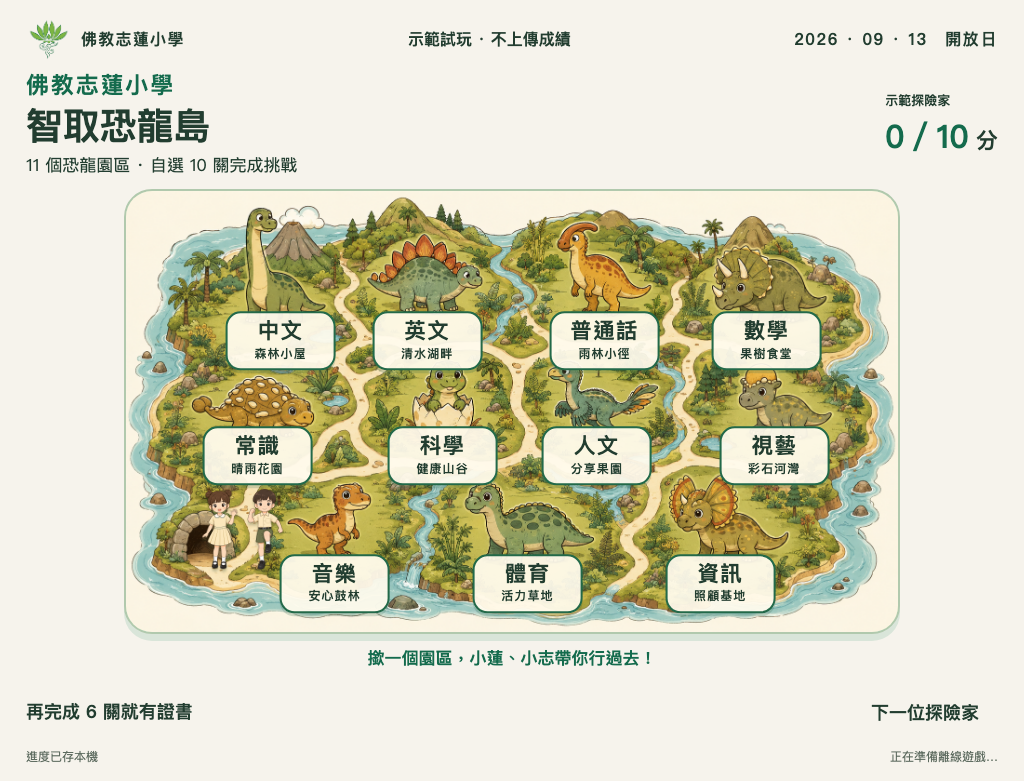
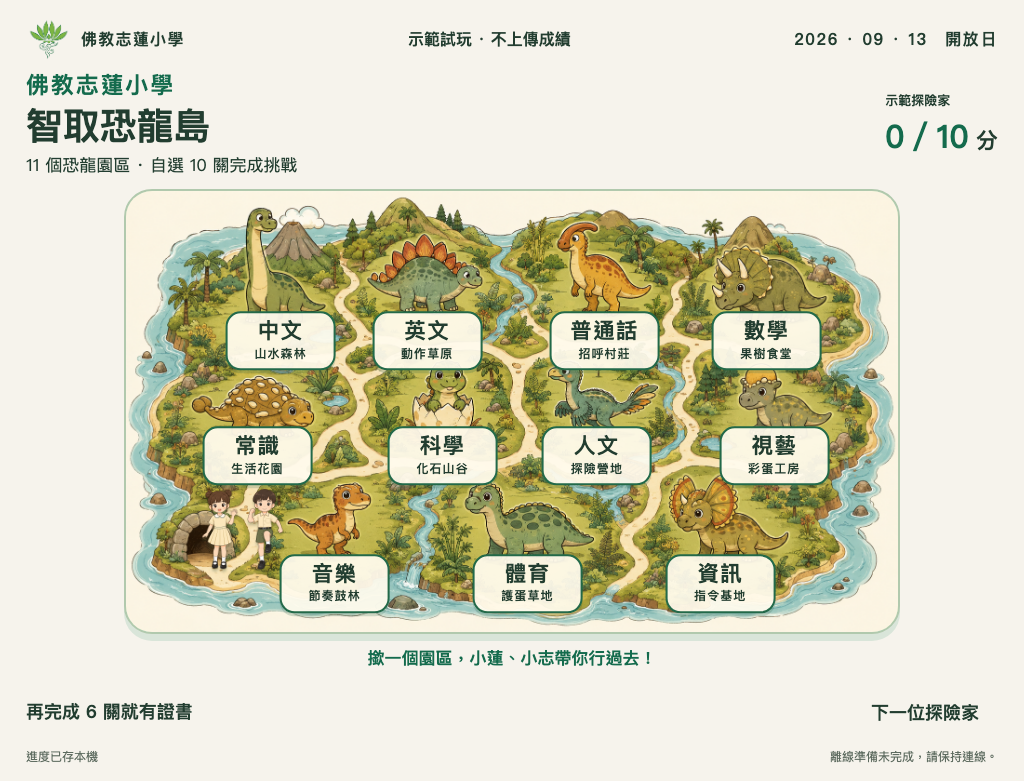
Add original daily routine scenes and align park descriptions with new games

diff --git a/shared/style.css b/shared/style.css
@@ -34,8 +34,8 @@
 .feeding-dino.is-fed{background:#fff9dc;border-color:#b8923a;border-radius:24px}.feeding-count{text-align:center;font-size:28px;font-weight:800;margin:12px}.feeding-food{gap:10px;flex-wrap:wrap}.feeding-food .choice{min-width:72px;width:84px;height:84px}.feeding-food .choice:disabled{opacity:.25}.feeding-hint{outline:6px solid #b8923a;outline-offset:2px}
 @media(max-width:600px){.feeding-garden{gap:2px;padding:12px 2px;min-height:180px}.feeding-dino{font-size:14px;padding:3px}.feeding-dino .character{height:100px}.feeding-plate{width:48px;height:40px}.feeding-food .choice{min-width:64px;width:64px;height:64px}}
 
-.routine-scene{position:relative;display:flex;justify-content:center;align-items:end;gap:36px;min-height:235px;padding:18px;background:#e8edcf;border-radius:28px}.routine-night{background:#d9dfeb}.routine-window{position:absolute;right:5%;top:12px;display:grid;place-items:center;width:100px;height:100px;background:#fff8df;border:6px solid #b8923a;border-radius:48px 48px 8px 8px}.routine-window .icon{width:75px;height:75px}.routine-guide{width:150px;height:210px;object-fit:contain}.routine-dino{display:flex;align-items:center;gap:10px}.routine-dino>.character{width:170px;height:210px;object-fit:contain}.routine-action{display:flex;flex-direction:column;align-items:center;background:#f6f3ec;border:3px solid #146b4d;border-radius:24px;padding:10px;font-size:22px}.routine-action .icon{width:75px;height:75px}.routine-sequence{display:flex;justify-content:center;align-items:center;gap:16px;min-height:78px;margin-top:10px}.routine-sequence span{display:flex;align-items:center;font-size:22px;gap:6px}.routine-sequence .icon{width:48px;height:48px}.routine-choices .choice{display:flex;flex-direction:column;align-items:center;justify-content:center;width:140px;height:120px;font-size:22px}.routine-choices .icon{width:70px;height:70px}.routine-hint{outline:6px solid #b8923a;outline-offset:3px}
-@media(max-width:600px){.routine-scene{gap:8px;min-height:190px;padding:10px}.routine-guide{width:75px;height:150px}.routine-dino>.character{width:105px;height:150px}.routine-action{padding:6px;font-size:18px}.routine-action .icon{width:48px;height:48px}.routine-window{width:60px;height:60px;right:8px;top:8px}.routine-window .icon{width:44px;height:44px}.routine-sequence{gap:5px}.routine-sequence span{font-size:16px}.routine-sequence .icon{width:32px;height:32px}.routine-choices .choice{width:90px;height:100px;font-size:18px}}
+.routine-scene{position:relative;display:flex;justify-content:center;align-items:end;gap:36px;min-height:330px;padding:75px 18px 18px;background:#e8edcf url(../hub/img/games/general/morning.png) center top/cover;border-radius:28px}.routine-day{background-image:url(../hub/img/games/general/daytime.png)}.routine-night{background-image:url(../hub/img/games/general/bedtime.png)}.routine-window{position:absolute;left:14px;top:12px;display:grid;place-items:center;width:64px;height:64px;background:#fff8df;border:3px solid #b8923a;border-radius:18px}.routine-window .icon{width:48px;height:48px}.routine-guide{width:150px;height:210px;object-fit:contain}.routine-dino{display:flex;align-items:center;gap:10px}.routine-dino>.character{width:170px;height:210px;object-fit:contain}.routine-action{display:flex;flex-direction:column;align-items:center;background:#f6f3ec;border:3px solid #146b4d;border-radius:24px;padding:10px;font-size:22px}.routine-action .icon{width:75px;height:75px}.routine-sequence{display:flex;justify-content:center;align-items:center;gap:16px;min-height:78px;margin-top:10px}.routine-sequence span{display:flex;align-items:center;font-size:22px;gap:6px}.routine-sequence .icon{width:48px;height:48px}.routine-choices .choice{display:flex;flex-direction:column;align-items:center;justify-content:center;width:140px;height:120px;font-size:22px}.routine-choices .icon{width:70px;height:70px}.routine-hint{outline:6px solid #b8923a;outline-offset:3px}
+@media(max-width:600px){.routine-scene{gap:8px;min-height:245px;padding:75px 10px 10px}.routine-guide{width:75px;height:150px}.routine-dino>.character{width:105px;height:150px}.routine-action{padding:6px;font-size:18px}.routine-action .icon{width:48px;height:48px}.routine-window{width:50px;height:50px;left:8px;top:8px}.routine-window .icon{width:36px;height:36px}.routine-sequence{gap:5px}.routine-sequence span{font-size:16px}.routine-sequence .icon{width:32px;height:32px}.routine-choices .choice{width:90px;height:100px;font-size:18px}}
 
 .expedition-intro{text-align:center;font-size:26px;padding:20px}.expedition-intro>.icon{width:150px;height:150px}.expedition-camp{display:flex;justify-content:center;align-items:end;gap:18px;min-height:220px;padding:16px;background:#e0ebce;border-radius:40px}.expedition-camp>.character{width:150px;height:190px;object-fit:contain}.expedition-improvements{display:flex;align-items:end;gap:12px}.expedition-improvements>span{display:flex;align-items:center;flex-direction:column;font-size:20px}.expedition-improvements .icon{width:90px;height:90px}.expedition-options .choice{width:220px;height:160px;display:flex;flex-direction:column;align-items:center;justify-content:center;font-size:24px}.expedition-options .icon{width:100px;height:100px}.expedition-hint{outline:6px solid #b8923a;outline-offset:3px}
 @media(max-width:600px){.expedition-camp{gap:4px;padding:8px;min-height:165px}.expedition-camp>.character{width:65px;height:140px}.expedition-improvements{gap:4px}.expedition-improvements>span{font-size:13px;max-width:58px;text-align:center}.expedition-improvements .icon{width:52px;height:52px}.expedition-options{gap:8px}.expedition-options .choice{width:92px;min-width:80px;height:140px;font-size:17px;padding:6px}.expedition-options .icon{width:64px;height:64px}}

diff --git a/sw.js b/sw.js
@@ -1,7 +1,7 @@
 // Generated precache manifest. Rebuild whenever local assets change.
-const CACHE='dino-island-ad4d1d988a67';
+const CACHE='dino-island-57afd5bde331';
 const BASE=new URL('./',self.location.href);
-const ASSETS=["board/board.css","board/board.js","board/img/board-skin.png","board/index.html","hub/app.js","hub/certificate.js","hub/games.js","hub/img/chars/dino-baby-eat.png","hub/img/chars/dino-baby-sleep.png","hub/img/chars/dino-baby.png","hub/img/chars/landmark-hatch.png","hub/img/chars/landmark-longneck.png","hub/img/chars/landmark-triceratops.png","hub/img/chars/xiaolian-clap.png","hub/img/chars/xiaolian-color.png","hub/img/chars/xiaolian-highfive.png","hub/img/chars/xiaolian-point.png","hub/img/chars/xiaolian-welcome.png","hub/img/chars/xiaolian-write.png","hub/img/chars/xiaozhi-highfive.png","hub/img/chars/xiaozhi-jump.png","hub/img/chars/xiaozhi-run.png","hub/img/chars/xiaozhi-sit.png","hub/img/chars/xiaozhi-step.png","hub/img/chars/xiaozhi-stretch.png","hub/img/chars/xiaozhi-tablet.png","hub/img/chars/xiaozhi-welcome.png","hub/img/games/math/feeding-garden.png","hub/img/map/island-path.png","hub/img/ui/cert-frame.png","hub/index.html","hub/modules/art.js","hub/modules/chinese-scenes.js","hub/modules/computing.js","hub/modules/general.js","hub/modules/humanities.js","hub/modules/mandarin.js","hub/modules/math.js","hub/modules/motion.js","hub/modules/music.js","hub/modules/science.js","hub/park-guides.js","index.html","setup/index.html","shared/config.js","shared/core.js","shared/game-clock-gate.js","shared/game-state.js","shared/icons.js","shared/img/school-logo.png","shared/models/pose-landmarker-lite-v1.task","shared/network.js","shared/offline.js","shared/pose-actions.js","shared/pose-camera.js","shared/qrcode.js","shared/recorder.js","shared/sequence.js","shared/storage.js","shared/style.css","shared/vendor/mediapipe/vision-bundle.js","shared/vendor/mediapipe/wasm/vision_wasm_internal.js","shared/vendor/mediapipe/wasm/vision_wasm_internal.wasm","shared/vendor/mediapipe/wasm/vision_wasm_nosimd_internal.js","shared/vendor/mediapipe/wasm/vision_wasm_nosimd_internal.wasm","hub/","board/","setup/"].map(p=>new URL(p,BASE).href);
+const ASSETS=["board/board.css","board/board.js","board/img/board-skin.png","board/index.html","hub/app.js","hub/certificate.js","hub/games.js","hub/img/chars/dino-baby-eat.png","hub/img/chars/dino-baby-sleep.png","hub/img/chars/dino-baby.png","hub/img/chars/landmark-hatch.png","hub/img/chars/landmark-longneck.png","hub/img/chars/landmark-triceratops.png","hub/img/chars/xiaolian-clap.png","hub/img/chars/xiaolian-color.png","hub/img/chars/xiaolian-highfive.png","hub/img/chars/xiaolian-point.png","hub/img/chars/xiaolian-welcome.png","hub/img/chars/xiaolian-write.png","hub/img/chars/xiaozhi-highfive.png","hub/img/chars/xiaozhi-jump.png","hub/img/chars/xiaozhi-run.png","hub/img/chars/xiaozhi-sit.png","hub/img/chars/xiaozhi-step.png","hub/img/chars/xiaozhi-stretch.png","hub/img/chars/xiaozhi-tablet.png","hub/img/chars/xiaozhi-welcome.png","hub/img/games/general/bedtime.png","hub/img/games/general/daytime.png","hub/img/games/general/morning.png","hub/img/games/math/feeding-garden.png","hub/img/map/island-path.png","hub/img/ui/cert-frame.png","hub/index.html","hub/modules/art.js","hub/modules/chinese-scenes.js","hub/modules/computing.js","hub/modules/general.js","hub/modules/humanities.js","hub/modules/mandarin.js","hub/modules/math.js","hub/modules/motion.js","hub/modules/music.js","hub/modules/science.js","hub/park-guides.js","index.html","setup/index.html","shared/certificate-link.js","shared/config.js","shared/core.js","shared/game-clock-gate.js","shared/game-state.js","shared/icons.js","shared/img/school-logo.png","shared/models/pose-landmarker-lite-v1.task","shared/network.js","shared/offline.js","shared/pose-actions.js","shared/pose-camera.js","shared/qrcode.js","shared/recorder.js","shared/sequence.js","shared/storage.js","shared/style.css","shared/vendor/mediapipe/vision-bundle.js","shared/vendor/mediapipe/wasm/vision_wasm_internal.js","shared/vendor/mediapipe/wasm/vision_wasm_internal.wasm","shared/vendor/mediapipe/wasm/vision_wasm_nosimd_internal.js","shared/vendor/mediapipe/wasm/vision_wasm_nosimd_internal.wasm","hub/","board/","setup/"].map(p=>new URL(p,BASE).href);
 self.addEventListener('install',e=>e.waitUntil(caches.open(CACHE).then(c=>c.addAll(ASSETS))));
 self.addEventListener('activate',e=>e.waitUntil(Promise.all([caches.keys().then(keys=>Promise.all(keys.filter(k=>k.startsWith('dino-island-')&&k!==CACHE).map(k=>caches.delete(k)))),self.clients.claim()])));
 self.addEventListener('message',e=>{if(e.data?.type!=='CHECK_OFFLINE'||!e.ports[0])return;e.waitUntil(caches.open(CACHE).then(async c=>{const present=await Promise.all(ASSETS.map(url=>c.match(url)));e.ports[0].postMessage({type:'OFFLINE_STATUS',version:CACHE,complete:present.every(Boolean),missing:present.filter(r=>!r).length,total:ASSETS.length});}).catch(()=>e.ports[0].postMessage({type:'OFFLINE_STATUS',complete:false,missing:ASSETS.length,total:ASSETS.length})));});

diff --git a/shared/core.js b/shared/core.js
@@ -2,15 +2,15 @@ export const SCHOOL='佛教志蓮小學', TITLE='智取恐龍島', DATE='2026.09
 export const ZONES=[
  ['chinese','中文','write','xiaolian-write','跟筆順認識山水火木日月，連結小龍嘅生活環境。','認識山水、火山、樹木同日月，小龍學識安全生活同休息！'],
  ['english','英文','ear',null,'聽英文指令，用身體動作回應小龍。','聽指令一齊郁身，小龍開心又有精神！'],
- ['mandarin','普通話','ear',null,'聽普通話，先至知小龍要咩。','避到雨、食得飽，小龍學識照顧自己！'],
+ ['mandarin','普通話','ear',null,'聽普通話、跟住講，學習打招呼同禮貌用語。','識得打招呼、多謝同道別，小龍同朋友相處更開心！'],
  ['math','數學','apple',null,'數一數，每隻恐龍分一份，唔重複、唔漏低。','每隻恐龍都有一份食物，大家食飽又開心！'],
  ['general','常識','sun','xiaozhi-welcome','認識早午晚，幫小龍安排飲食、清潔同休息。','食早餐、玩耍、沖涼、瞓覺，小龍學識有規律嘅生活！'],
  ['science','科學','search','xiaozhi-sit','掃泥、觀察化石、拼骨架，認識恐龍身體。','你細心研究化石，認識小龍嘅身體同以前嘅生命！'],
  ['humanities','人文','share','xiaolian-point','觀察環境，為小龍選安全營地、飲用水同樹蔭。','有安全營地、清潔飲用水同樹蔭，小龍生活更安心！'],
  ['art','視藝','paint','xiaolian-color','用顏色、形狀同紋樣裝飾彩蛋，歡迎小龍誕生。','你創作嘅彩蛋孵出小龍，新生命開心同你打招呼！'],
- ['music','音樂','drum','xiaolian-clap','跟節奏，小龍就唔會驚。','有你陪住打拍子，小龍安心又開心！'],
+ ['music','音樂','drum','xiaolian-clap','留心聽同睇燈，跟住鼓、鈴同拍手嘅次序合奏。','你同小蓮、小志、小龍一齊合奏，大家開心又合拍！'],
  ['pe','體育','move','xiaozhi-stretch','蹲低、移動、舉手同停定，練習控制身體保護恐龍蛋。','你控制好身體，恐龍蛋安全，小龍安心！'],
- ['computing','資訊','order','xiaozhi-tablet','照顧都有先後次序。','先飲水、後食菜，小龍學識照顧次序！']
+ ['computing','資訊','order','xiaozhi-tablet','先排好指令再試行，帶機械小龍避開障礙去搵恐龍蛋。','你排好前進、轉彎同跳躍指令，機械小龍安全到達恐龍蛋！']
 ].map(([id,name,icon,companion,parent,outcome])=>({id,name,icon,companion,parent,outcome}));
 export const zoneById=id=>ZONES.find(z=>z.id===id);
 export const nameLength=s=>[...new Intl.Segmenter('zh-HK',{granularity:'grapheme'}).segment(s)].length;

diff --git a/hub/app.js b/hub/app.js
@@ -23,9 +23,9 @@ function shell(content){app.innerHTML=`<div class="shell"><header class="topbar"
 function welcome(){shell(`<section class="welcome"><div class="welcome-copy"><p class="eyebrow">小小探險家 · 大大照顧心</p><h1>智取<br>恐龍島</h1><p class="question">點樣照顧恐龍島上嘅小恐龍，令佢哋安全、開心、學識生活？</p><form class="nickname"><label for="nickname">你叫咩暱稱？</label><div class="input-wrap"><input id="nickname" name="nickname" autocomplete="off" placeholder="例如：小晴" aria-describedby="name-help" required><span id="name-count" class="subtle">0／8</span></div><p class="subtle" id="name-help">最多八個字；暱稱會喺現場探險榜出現。</p><button class="primary" type="submit">出發去島上　→</button><p class="subtle">11 關任揀 10 關 · 每關 1 分 · 六分領證</p></form></div><div class="welcome-art"><span class="art-label">一齊照顧小龍！</span><img class="character boy" src="img/chars/xiaozhi-welcome.png" alt="小志張手歡迎"><img class="character dino" src="img/chars/dino-baby.png" alt="綠色小龍"></div></section>`);
  const input=document.querySelector('#nickname');input.addEventListener('input',()=>{let n=nameLength(cleanName(input.value));document.querySelector('#name-count').textContent=n+'／8';input.setCustomValidity(n>8?'暱稱最多八個字。':'');});document.querySelector('form').onsubmit=e=>{e.preventDefault();if(!validName(input.value)){notify('請輸入一至八個字嘅暱稱。');return;}player=newPlayer(input.value);persist();if(saveFailed)return;synced();location.hash='/map';};}
 const parkZones=[
- ['森林小屋',20,19,34],['清水湖畔',39,20,34],['雨林小徑',62,19,34],['果樹食堂',83,23,34],
- ['晴雨花園',17,49,60],['健康山谷',41,49,60],['分享果園',61,48,60],['彩石河灣',84,49,60],
- ['安心鼓林',27,76,89],['活力草地',52,78,89],['照顧基地',77,77,89]
+ ['山水森林',20,19,34],['動作草原',39,20,34],['招呼村莊',62,19,34],['果樹食堂',83,23,34],
+ ['生活花園',17,49,60],['化石山谷',41,49,60],['探險營地',61,48,60],['彩蛋工房',84,49,60],
+ ['節奏鼓林',27,76,89],['護蛋草地',52,78,89],['指令基地',77,77,89]
 ];
 function map(){
  const t=totals(player),finished=t.scoreReady;

diff --git a/design/game-assets/general-scenes-prompts.md b/design/game-assets/general-scenes-prompts.md
@@ -1,0 +1,15 @@
+# 常識生活場景生成提示
+
+工具：內建 image_gen。三張 PNG 原檔直接複製入遊戲，沒有程式改圖。
+
+## Morning
+
+Use case: illustration-story. Create ONE original landscape 1536x1024 background for Dino Island preschool daily-routine game. Reference image is STYLE ONLY, not an edit target: match its bold dark forest-green outlines, rounded simple shapes, cream #F6F3EC, emerald #146b4d and warm gold #b8923a, flat friendly storybook cartoon with light soft shading. Scene: early morning in a cosy dinosaur-sized forest cottage. A large arched window in upper right shows low rising sun over green hills; warm pale yellow daylight. Rounded wooden bed with cream pillow and green blanket at far left edge, a small empty breakfast table at far right edge. Broad uncluttered cream floor and wall in middle 65 percent for separately overlaid child guide and baby dinosaur, no central furniture. Frame entire environment as a wide stage, gentle front-facing view, not photorealistic and not 3D. Full-bleed opaque scene. NO characters, NO dinosaur, NO people, NO letters, NO words, NO clock numerals, NO watermark, NO interface buttons. Keep window, bed and table as big readable shapes, minimal tiny details.
+
+## Day
+
+Use case: lighting-weather. Edit this original Dino Island cottage scene into daytime. Keep exact composition, cottage, furniture, plants, shelf, outlines and camera view unchanged. Change only the time of day visible through arched window: high bright golden sun in pale clear cream-blue sky well above the distant green hills instead of rising sun at horizon. Room light is bright gentle daytime. Same flat storybook cartoon, dark forest-green outlines, emerald, cream and warm gold palette. No characters, text, numerals, watermark or buttons. Preserve broad empty centre for separately overlaid game characters. Opaque full-bleed landscape 1536x1024.
+
+## Night
+
+Use case: lighting-weather. Edit this original Dino Island cottage scene into bedtime at night. Keep exact composition, cottage, furniture, plants, shelf, outlines and camera view unchanged. Change only time and lighting: arched window shows deep blue-green night sky, a clear large cream crescent moon and three simple small gold stars above dark distant green hills, NO sun. Room is softly warmly lit for bedtime, calm cosy and clearly readable, never dark frightening or gloomy. Same flat storybook cartoon, dark forest-green outlines, emerald, cream and warm gold palette. No characters, text, numerals, watermark or buttons. Preserve broad empty centre for separately overlaid game characters. Opaque full-bleed landscape 1536x1024.

diff --git a/docs/GAME-UPDATE-V2.md b/docs/GAME-UPDATE-V2.md
@@ -164,3 +164,10 @@
 - 上傳回覆必須通過驗證才清除 IndexedDB 待傳相片；無效回覆可沿用原 requestId 重試，避免失去本機待傳檔。
 - 42 項單元測試通過；certificate-browser 驗證無效回覆不出 QR／保留相片、學校網域回覆出公開 QR、重試 requestId 不變、成功清理待傳、重入恢复 QR 而不重傳。
 - 測試使用模擬上傳回覆，阻擋所有外站請求；未替代真實 Apps Script、家長手機及到期下載驗收。建置 69 個離線資產，正式站仍未更新。
+
+## 園區文案與常識生活場景
+- 地圖園區名稱配合新版內容更新為山水森林、動作草原、招呼村莊、果樹食堂、生活花園、化石山谷、探險營地、彩蛋工房、節奏鼓林、護蛋草地、指令基地；保留原地圖路線及自由選區。
+- 普通話、資訊及音樂的家長句／完成成果同步新版內容，移除舊避雨、先水後菜文案。park-map 測試通過，三種寬度截圖已更新。
+- 內建 image_gen 生成常識 morning.png、daytime.png、bedtime.png：同一森林小屋，日出／高日／月夜變化；原始 PNG 複製入 hub/img/games/general。提示保存 design/game-assets/general-scenes-prompts.md。
+- 三場景按當回合生活時段套用，保留大圖示輔助辨識。已檢視 general-v2 完成截圖，月亮及人物清楚；general-browser 全流程及手機無橫向溢出通過。
+- 重建 72 個離線資產；offline.mjs 再次通過。角色新生活姿勢、語音及實機仍待完成，正式網站未更新。
